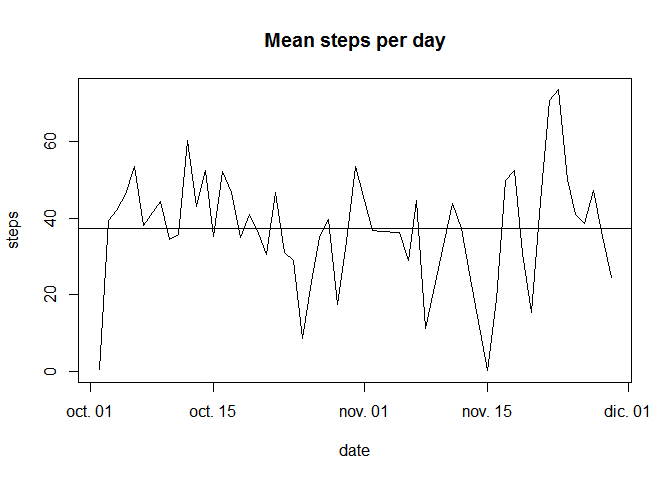
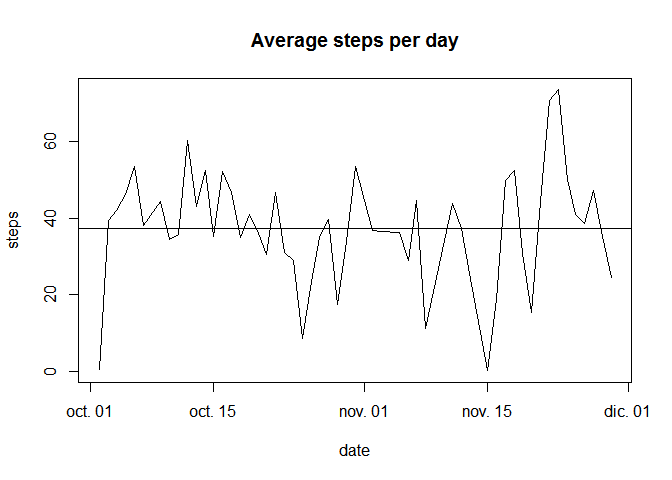
Added files via upload

Changed region(s): [[0.375, 0.0625, 0.6875, 0.125]]

diff --git a/PA1_template.html b/PA1_template.html
@@ -65,10 +65,14 @@ img {
 
 
 <p>The data consists of two months of data from an anonymous individual collected during the months of October and November, 2012 and include the number of steps taken in 5 minute intervals each day.</p>
+<p>Dataset: Activity monitoring data [52K] The variables included in this dataset are:</p>
+<p>steps: Number of steps taking in a 5-minute interval (missing values are coded as NA) date: The date on which the measurement was taken in YYYY-MM-DD format interval: Identifier for the 5-minute interval in which measurement was taken The dataset is stored in a comma-separated-value (CSV) file and there are a total of 17,568 observations in this dataset.</p>
 <div id="loading-and-preprocessing-the-data" class="section level2">
 <h2>Loading and preprocessing the data</h2>
 <p>The data set is on the cloud in a zip file</p>
-<pre class="r"><code>  url &lt;- &quot;https://d396qusza40orc.cloudfront.net/repdata%2Fdata%2Factivity.zip&quot;
+<pre class="r"><code># (1. Code for reading in the dataset and/or processing the data)
+
+  url &lt;- &quot;https://d396qusza40orc.cloudfront.net/repdata%2Fdata%2Factivity.zip&quot;
   zipfile &lt;- &quot;./repdata-data-activity.zip&quot;
   file &lt;- &quot;activity.csv&quot;
 
@@ -84,26 +88,35 @@ activity$date &lt;- as.Date(activity$date, '%Y-%m-%d')</code></pre>
 </div>
 <div id="what-is-mean-total-number-of-steps-taken-per-day" class="section level2">
 <h2>What is mean total number of steps taken per day?</h2>
-<pre class="r"><code>pace &lt;- aggregate(steps ~ date,data = activity, sum)
+<pre class="r"><code># (2. Histogram of the total number of steps taken each day)
+
+pace &lt;- aggregate(steps ~ date,data = activity, sum)
 pace$date &lt;- as.Date(pace$date, '%Y-%m-%d')
 hist(pace$steps, breaks = 20, col = &quot;blue&quot;, main = 'Histogram of steps per day', xlab = 'Total steps per day', xlim = c(0,max(pace$steps)))</code></pre>
[2 lines of base64/hex data omitted]
+<p>The maximum frequency is between 10,000 and 11,000 steps.</p>
 </div>
 <div id="what-is-the-average-daily-activity-pattern" class="section level2">
 <h2>What is the average daily activity pattern?</h2>
-<pre class="r"><code>media &lt;- aggregate(steps ~ date,data = activity, mean)
+<pre class="r"><code># (4. Time series plot of the average number of steps taken)
+
+media &lt;- aggregate(steps ~ date,data = activity, mean)
 media$date &lt;- as.Date(media$date, '%Y-%m-%d')
-plot(media, type='l', main = 'Mean steps per day')
+plot(media, type='l', main = 'Average steps per day')
 abline(h = mean(media$steps))</code></pre>
[2 lines of base64/hex data omitted]
 <p>The horizontal line is the mean. There is almost no skew. The median is almost the same.</p>
-<pre class="r"><code>mean(pace$steps, na.rm = TRUE)</code></pre>
+<pre class="r"><code># (3. Mean and median number of steps taken each day)
+
+mean(pace$steps, na.rm = TRUE)</code></pre>
 <pre><code>## [1] 10766.19</code></pre>
 <pre class="r"><code>median(pace$steps, na.rm = TRUE)</code></pre>
 <pre><code>## [1] 10765</code></pre>
 <p>The pattern do not shows clues. Might be problems with missing values.</p>
 <p>The 5-minute interval that, on average, contains the maximum number of steps is 167.</p>
-<pre class="r"><code>interval &lt;- aggregate(steps ~ interval,data = activity, mean)
+<pre class="r"><code># (5. The 5-minute interval that, on average, contains the maximum number of steps)
+
+interval &lt;- aggregate(steps ~ interval,data = activity, mean)
 max &lt;- max(interval$steps)
 print(max)</code></pre>
 <pre><code>## [1] 206.1698</code></pre>
@@ -114,7 +127,9 @@ print(max)</code></pre>
 <div id="imputing-missing-values" class="section level2">
 <h2>Imputing missing values</h2>
 <p>Each day has 288 intervals. And, there are not days with partial data. Only 8 days with no ‘steps’ data at all.</p>
-<pre class="r"><code>DaysWithMissingData &lt;- activity[!complete.cases(activity),]
+<pre class="r"><code># (6. Code to describe and show a strategy for imputing missing data)
+
+DaysWithMissingData &lt;- activity[!complete.cases(activity),]
 DaysWithMissingData$date &lt;- as.Date(DaysWithMissingData$date, '%Y-%m-%d')
 table(DaysWithMissingData$date)</code></pre>
 <pre><code>## 
@@ -152,7 +167,9 @@ colnames(imputation)[3] &lt;- &quot;steps&quot;
 imputation$steps.y &lt;- NULL
  rm(meanWeekday)</code></pre>
 <p>Finally, we can see if there is any change.</p>
-<pre class="r"><code>paceimp &lt;- aggregate(steps ~ date,data = imputation, sum)
+<pre class="r"><code># (7. Histogram of the total number of steps taken each day after missing values are imputed)
+
+paceimp &lt;- aggregate(steps ~ date,data = imputation, sum)
 paceimp$date &lt;- as.Date(paceimp$date, '%Y-%m-%d')
 hist(paceimp$steps, breaks = 20, col = &quot;blue&quot;, main = 'Histogram of steps per day', xlab = 'Total steps per day', xlim = c(0,max(paceimp$steps)))</code></pre>
[1 lines of base64/hex data omitted]
@@ -161,7 +178,9 @@ hist(paceimp$steps, breaks = 20, col = &quot;blue&quot;, main = 'Histogram of st
 </div>
 <div id="are-there-differences-in-activity-patterns-between-weekdays-and-weekends" class="section level2">
 <h2>Are there differences in activity patterns between weekdays and weekends?</h2>
-<pre class="r"><code>days.of.week &lt;- weekdays(x=as.Date(seq(7), origin=&quot;1950-01-01&quot;))
+<pre class="r"><code># (8. Panel plot comparing the average number of steps taken per 5-minute interval across weekdays and weekends)
+
+days.of.week &lt;- weekdays(x=as.Date(seq(7), origin=&quot;1950-01-01&quot;))
 imputation[,5] &lt;- imputation[,2] %in% days.of.week[6:7]
 colnames(imputation)[5] &lt;- &quot;weekend&quot;
 meanWeekend &lt;- aggregate(steps ~ weekend + interval,data = imputation, mean)

diff --git a/PA1_template.md b/PA1_template.md
@@ -2,11 +2,21 @@
 
 The data consists of two months of data from an anonymous individual collected during the months of October and November, 2012 and include the number of steps taken in 5 minute intervals each day.
 
+Dataset: Activity monitoring data [52K]
+The variables included in this dataset are:
+
+steps: Number of steps taking in a 5-minute interval (missing values are coded as NA)
+date: The date on which the measurement was taken in YYYY-MM-DD format
+interval: Identifier for the 5-minute interval in which measurement was taken
+The dataset is stored in a comma-separated-value (CSV) file and there are a total of 17,568 observations in this dataset.
+
 ## Loading and preprocessing the data
 
 The data set is on the cloud in a zip file
 
 ```r
+# (1. Code for reading in the dataset and/or processing the data)
+
   url <- "https://d396qusza40orc.cloudfront.net/repdata%2Fdata%2Factivity.zip"
   zipfile <- "./repdata-data-activity.zip"
   file <- "activity.csv"
@@ -25,21 +35,28 @@ We will explore any pattern.
 
 ## What is mean total number of steps taken per day?
 
+
 ```r
+# (2. Histogram of the total number of steps taken each day)
+
 pace <- aggregate(steps ~ date,data = activity, sum)
 pace$date <- as.Date(pace$date, '%Y-%m-%d')
 hist(pace$steps, breaks = 20, col = "blue", main = 'Histogram of steps per day', xlab = 'Total steps per day', xlim = c(0,max(pace$steps)))
 ```
 
 ![](PA1_template_files/figure-html/unnamed-chunk-2-1.png)
+
 The maximum frequency is between 10,000 and 11,000 steps.
 
 ## What is the average daily activity pattern?
 
+
 ```r
+# (4. Time series plot of the average number of steps taken)
+
 media <- aggregate(steps ~ date,data = activity, mean)
 media$date <- as.Date(media$date, '%Y-%m-%d')
-plot(media, type='l', main = 'Mean steps per day')
+plot(media, type='l', main = 'Average steps per day')
 abline(h = mean(media$steps))
 ```
 
@@ -49,6 +66,8 @@ The horizontal line is the mean. There is almost no skew. The median is almost t
 
 
 ```r
+# (3. Mean and median number of steps taken each day)
+
 mean(pace$steps, na.rm = TRUE)
 ```
 
@@ -70,6 +89,8 @@ The 5-minute interval that, on average, contains the maximum number of steps is 
 
 
 ```r
+# (5. The 5-minute interval that, on average, contains the maximum number of steps)
+
 interval <- aggregate(steps ~ interval,data = activity, mean)
 max <- max(interval$steps)
 print(max)
@@ -95,6 +116,8 @@ Each day has 288 intervals. And, there are not days with partial data. Only 8 da
 
 
 ```r
+# (6. Code to describe and show a strategy for imputing missing data)
+
 DaysWithMissingData <- activity[!complete.cases(activity),]
 DaysWithMissingData$date <- as.Date(DaysWithMissingData$date, '%Y-%m-%d')
 table(DaysWithMissingData$date)
@@ -169,6 +192,8 @@ Finally, we can see if there is any change.
 
 
 ```r
+# (7. Histogram of the total number of steps taken each day after missing values are imputed)
+
 paceimp <- aggregate(steps ~ date,data = imputation, sum)
 paceimp$date <- as.Date(paceimp$date, '%Y-%m-%d')
 hist(paceimp$steps, breaks = 20, col = "blue", main = 'Histogram of steps per day', xlab = 'Total steps per day', xlim = c(0,max(paceimp$steps)))
@@ -184,6 +209,8 @@ May be there is any pattern in weekdays and weekend days:
 
 
 ```r
+# (8. Panel plot comparing the average number of steps taken per 5-minute interval across weekdays and weekends)
+
 days.of.week <- weekdays(x=as.Date(seq(7), origin="1950-01-01"))
 imputation[,5] <- imputation[,2] %in% days.of.week[6:7]
 colnames(imputation)[5] <- "weekend"
@@ -197,3 +224,5 @@ plot(meanWeekend[,3][meanWeekend[,1]], type='l', main = 'Average number of steps
 ![](PA1_template_files/figure-html/unnamed-chunk-11-1.png)
 
 Effectively, there is a difference: On weekend, the day begins later, and the average steps are more distributed along the day.
+
+
